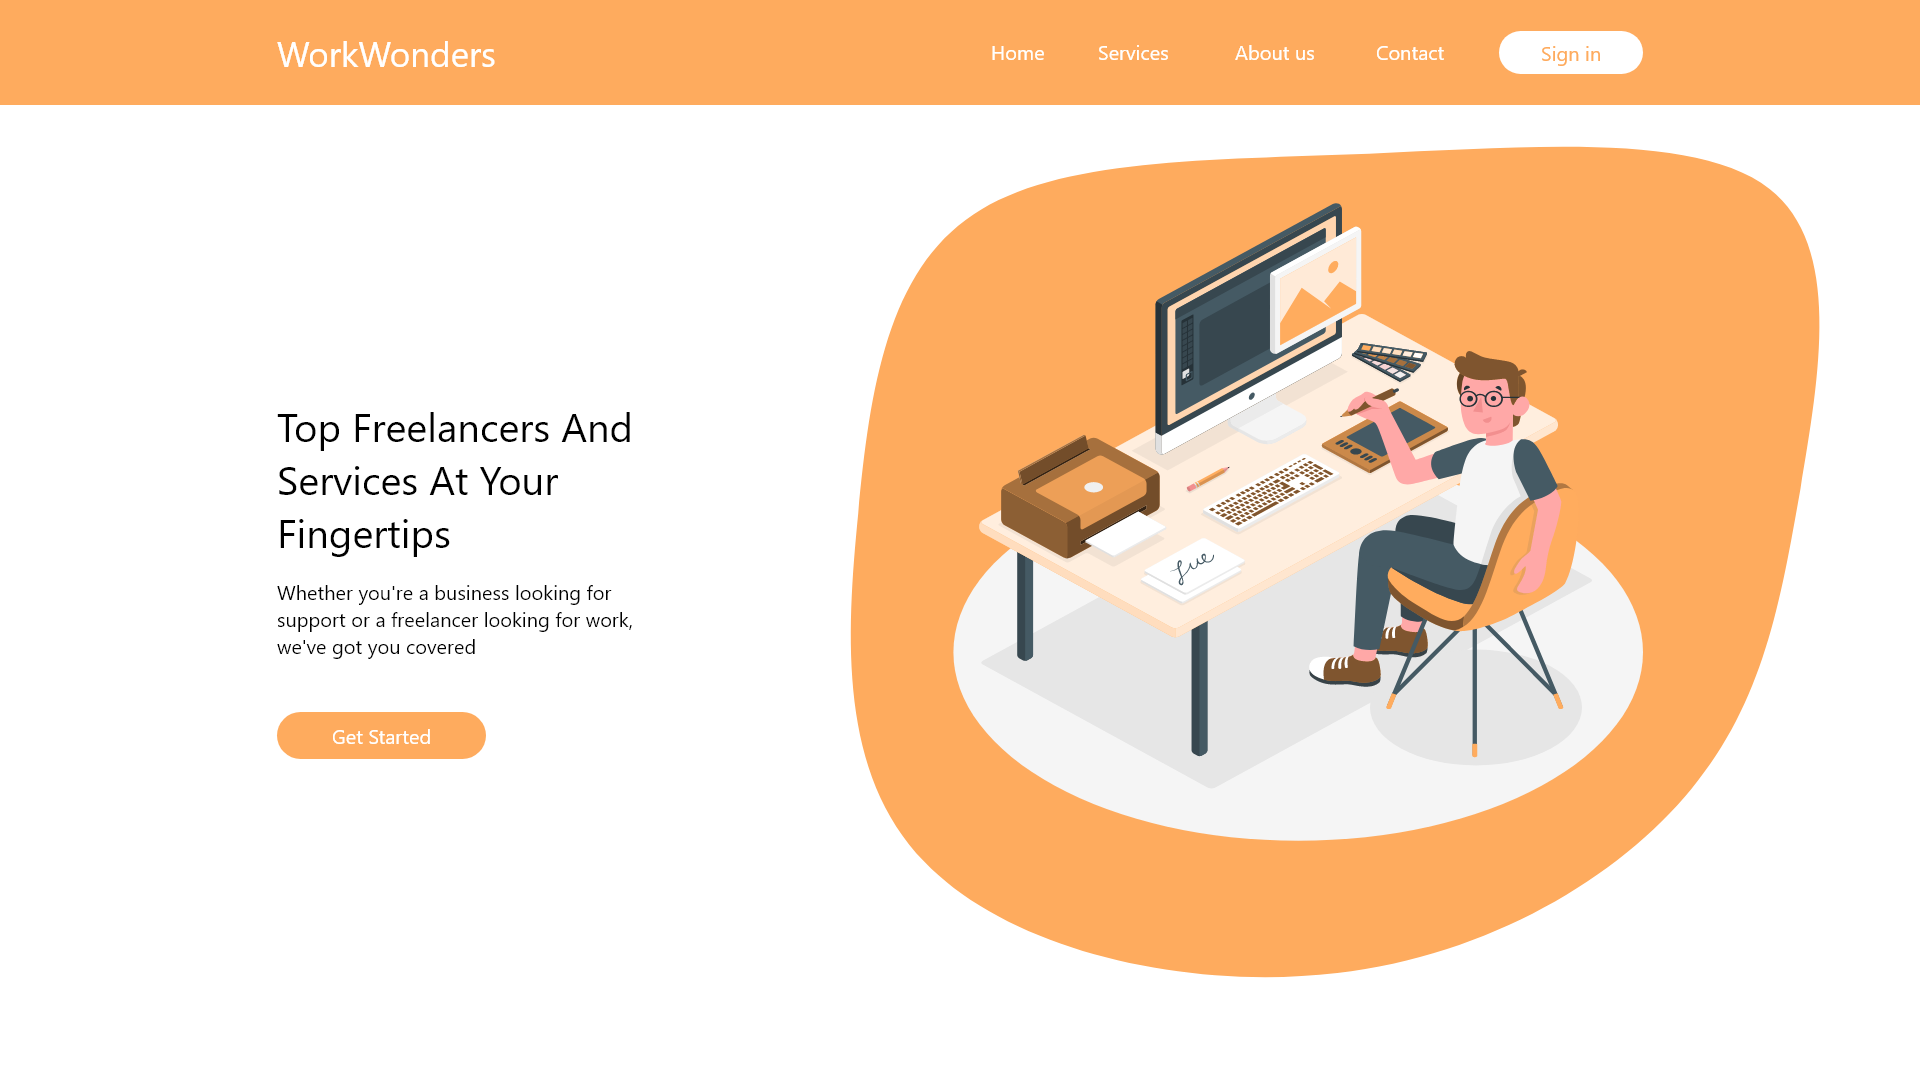
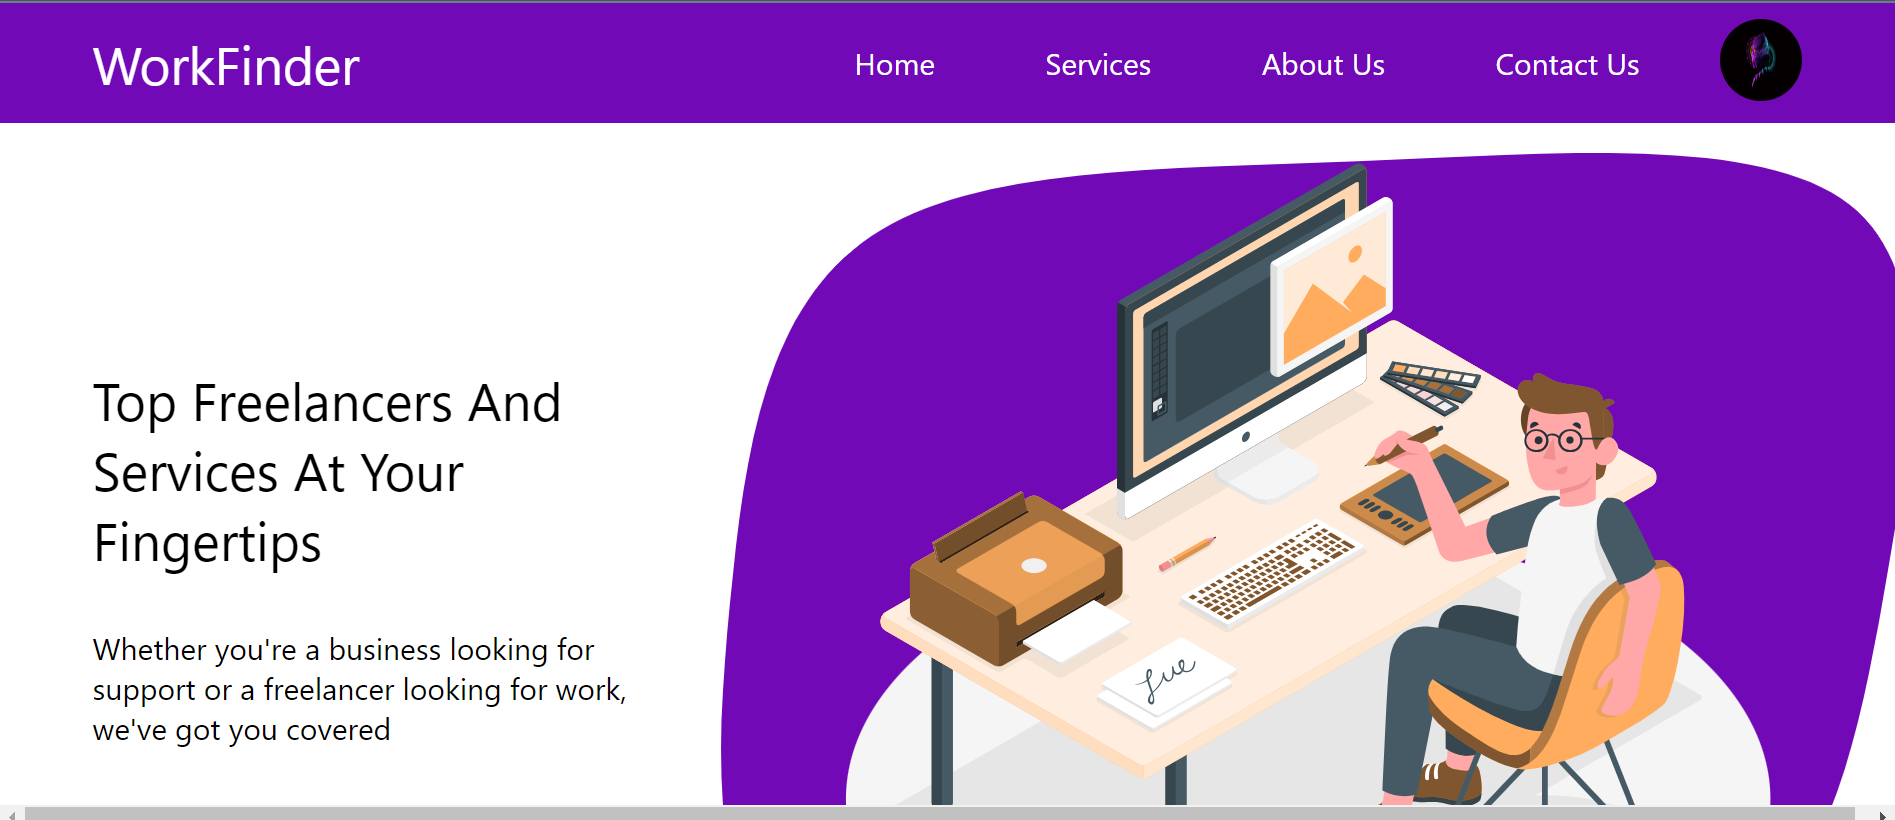
updated folder

diff --git a/README.md b/README.md
@@ -1,14 +1,13 @@
-# 🚀 Work Wonders
+# 🚀 Work Finders
 
 ## 💻 Description
 
 This platform is a website that connects freelancers and clients. It has a homepage with general information, and users can register as either a freelancer or a client. Freelancers can create, update, and delete services, view statistics, and receive testimonials from previous clients. Clients can view services offered by freelancers, request services, and view their order status and expenses. Both types of users have their own dashboard, profile, and chatroom to communicate with each other instantly.
 
-## 🎥 Video Demo
+## 🎥 Home Page
 
-[![Work Wonders - Freelance Website App](https://github.com/tarikbouchaala/Work-Wonders/raw/main/client/src/assets/Images/Miniature.png)](https://www.youtube.com/watch?v=YRXQsYHNx9Y)
+[![Work Wonders - Freelance Website App](https://github.com/itssouray/Work-Finder/blob/main/client/src/assets/Images/Miniature.png)]()
 
-Click the image above to watch the video demo of Work Wonders and get a visual walkthrough of the app's features and functionalities.
 
 ## 🛠 Technologies Used
 
